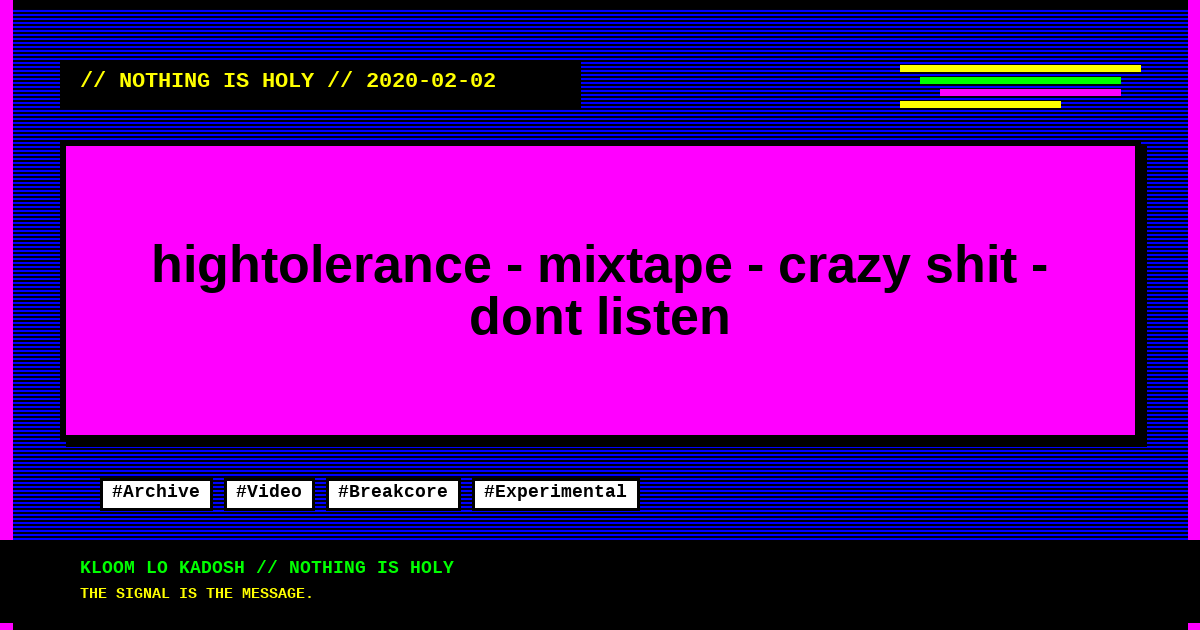
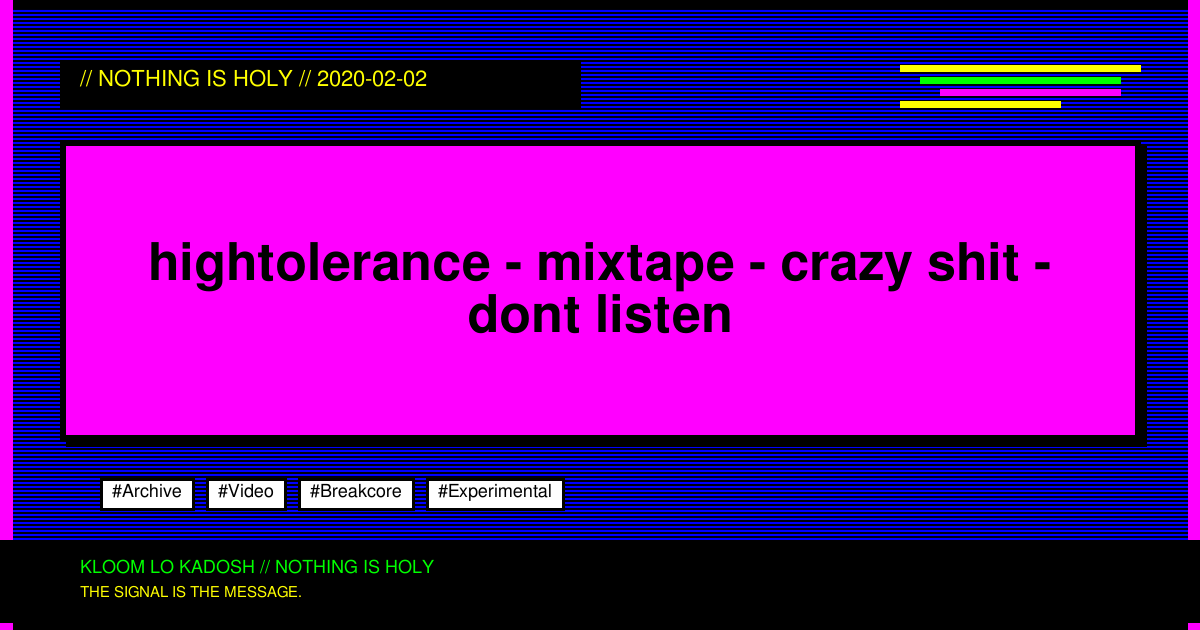
Fix Hebrew text rendering in OpenGraph images
- Switch to FreeSans font family which has excellent Hebrew support
- Hebrew titles now display correctly instead of squares
- All OG images regenerated with proper Hebrew rendering

diff --git a/shows/hightolerance-2020-02-02.html b/shows/hightolerance-2020-02-02.html
@@ -231,7 +231,7 @@ Venetian Snares - Bashing his head in
     </div>
 
     <div class="footer">
-        KLOOM LO KADOSH RADIO ARCHIVE // GENERATED 2026-02-05 20:59:55
+        KLOOM LO KADOSH RADIO ARCHIVE // GENERATED 2026-02-05 22:05:59
     </div>
 
     <script src="../assets/player.js"></script>

diff --git a/about.html b/about.html
@@ -157,7 +157,7 @@ All frequencies welcome.
     </div>
 
     <div class="footer">
-        KLOOM LO KADOSH RADIO ARCHIVE // GENERATED 2026-02-05 20:59:55
+        KLOOM LO KADOSH RADIO ARCHIVE // GENERATED 2026-02-05 22:06:00
     </div>
 
     <script src="assets/player.js"></script>

diff --git a/shows/no-sleep-2024-02-12.html b/shows/no-sleep-2024-02-12.html
@@ -226,7 +226,7 @@ Whats my age again?
     </div>
 
     <div class="footer">
-        KLOOM LO KADOSH RADIO ARCHIVE // GENERATED 2026-02-05 20:59:55
+        KLOOM LO KADOSH RADIO ARCHIVE // GENERATED 2026-02-05 22:05:59
     </div>
 
     <script src="../assets/player.js"></script>

diff --git a/contact.html b/contact.html
@@ -155,7 +155,7 @@ we're not on the air.
     </div>
 
     <div class="footer">
-        KLOOM LO KADOSH RADIO ARCHIVE // GENERATED 2026-02-05 20:59:55
+        KLOOM LO KADOSH RADIO ARCHIVE // GENERATED 2026-02-05 22:06:00
     </div>
 
     <script src="assets/player.js"></script>

diff --git a/index.html b/index.html
@@ -1641,7 +1641,7 @@ Venetian Snares - Bashing his head in</div>
     </div>
 
     <footer class="footer">
-        GENERATED: 2026-02-05 20:59:55<br>
+        GENERATED: 2026-02-05 22:06:00<br>
         SYSTEM STATUS: ONLINE<br>
         HOSTED ON MEZO INFRASTRUCTURE
     </footer>

diff --git a/shows/no-sleep-2023-12-16.html b/shows/no-sleep-2023-12-16.html
@@ -223,7 +223,7 @@ Nothing is holly.
     </div>
 
     <div class="footer">
-        KLOOM LO KADOSH RADIO ARCHIVE // GENERATED 2026-02-05 20:59:55
+        KLOOM LO KADOSH RADIO ARCHIVE // GENERATED 2026-02-05 22:05:59
     </div>
 
     <script src="../assets/player.js"></script>

diff --git a/shows/bots-religion.html b/shows/bots-religion.html
@@ -225,7 +225,7 @@
     </div>
 
     <div class="footer">
-        KLOOM LO KADOSH RADIO ARCHIVE // GENERATED 2026-02-05 20:59:55
+        KLOOM LO KADOSH RADIO ARCHIVE // GENERATED 2026-02-05 22:05:59
     </div>
 
     <script src="../assets/player.js"></script>

diff --git a/shows/kol-hazuti-breakup.html b/shows/kol-hazuti-breakup.html
@@ -225,7 +225,7 @@
     </div>
 
     <div class="footer">
-        KLOOM LO KADOSH RADIO ARCHIVE // GENERATED 2026-02-05 20:59:55
+        KLOOM LO KADOSH RADIO ARCHIVE // GENERATED 2026-02-05 22:06:00
     </div>
 
     <script src="../assets/player.js"></script>

diff --git a/shows/kol-hazuti-forbidden.html b/shows/kol-hazuti-forbidden.html
@@ -225,7 +225,7 @@
     </div>
 
     <div class="footer">
-        KLOOM LO KADOSH RADIO ARCHIVE // GENERATED 2026-02-05 20:59:55
+        KLOOM LO KADOSH RADIO ARCHIVE // GENERATED 2026-02-05 22:06:00
     </div>
 
     <script src="../assets/player.js"></script>

diff --git a/shows/kol-hazuti-god.html b/shows/kol-hazuti-god.html
@@ -225,7 +225,7 @@
     </div>
 
     <div class="footer">
-        KLOOM LO KADOSH RADIO ARCHIVE // GENERATED 2026-02-05 20:59:55
+        KLOOM LO KADOSH RADIO ARCHIVE // GENERATED 2026-02-05 22:06:00
     </div>
 
     <script src="../assets/player.js"></script>

diff --git a/shows/kol-hazuti-love.html b/shows/kol-hazuti-love.html
@@ -225,7 +225,7 @@
     </div>
 
     <div class="footer">
-        KLOOM LO KADOSH RADIO ARCHIVE // GENERATED 2026-02-05 20:59:55
+        KLOOM LO KADOSH RADIO ARCHIVE // GENERATED 2026-02-05 22:06:00
     </div>
 
     <script src="../assets/player.js"></script>

diff --git a/shows/kol-hazuti-tech-music.html b/shows/kol-hazuti-tech-music.html
@@ -225,7 +225,7 @@
     </div>
 
     <div class="footer">
-        KLOOM LO KADOSH RADIO ARCHIVE // GENERATED 2026-02-05 20:59:55
+        KLOOM LO KADOSH RADIO ARCHIVE // GENERATED 2026-02-05 22:06:00
     </div>
 
     <script src="../assets/player.js"></script>
